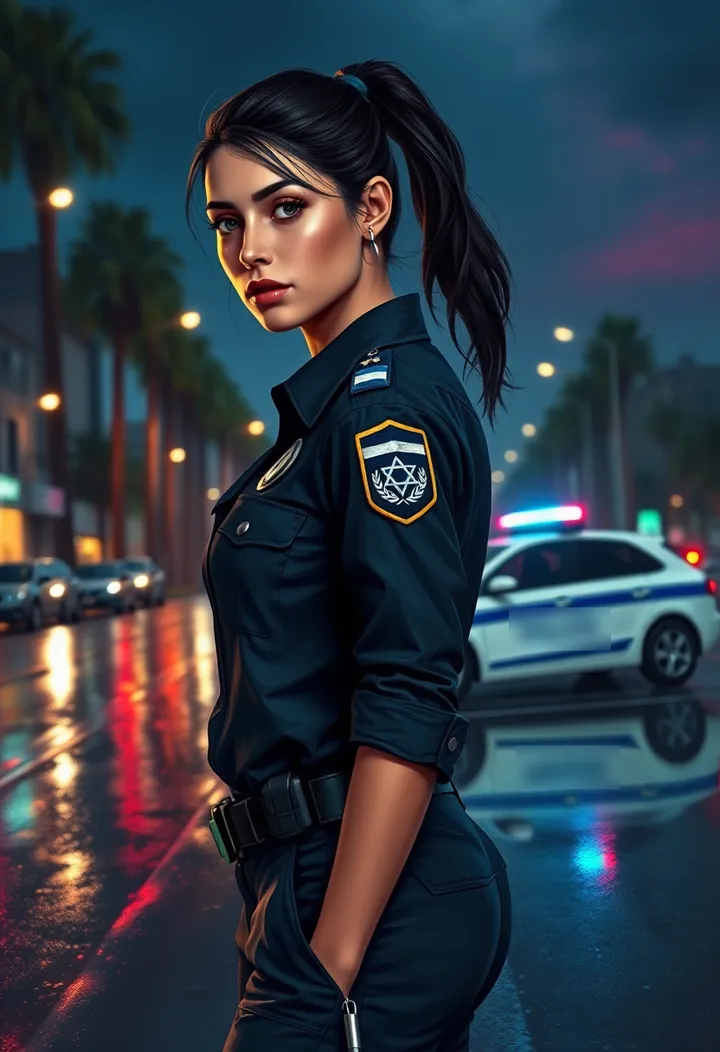
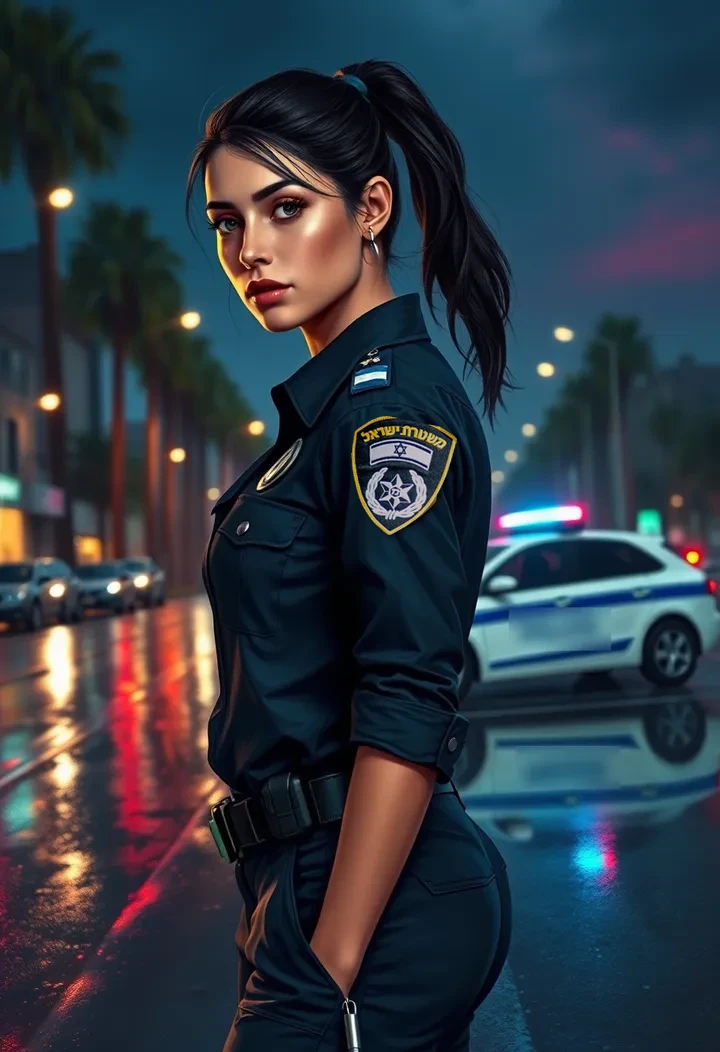
סמל משטרת ישראל הרשמי על שרוול השוטר והשוטרת (באישור), וסוף הטריילר: סמלי המכללה הלאומית לשוטרים ואגף ההדרכה נכנסים מתוך המצלמה משני הצדדים; תיקון גודל שדות טקסט בנייד

Changed region(s): [[0.4889, 0.3954, 0.6417, 0.5171]]

diff --git a/src/styles.css b/src/styles.css
@@ -121,7 +121,7 @@ legend { padding: 0 6px; color: var(--muted); font-size: .9em; }
 .radio-row label:has(input:checked) { border-color: var(--accent); }
 input[type='radio'], input[type='checkbox'] { width: 20px; height: 20px; accent-color: var(--accent); }
 input[type='range'] { width: 100%; accent-color: var(--accent); }
-textarea, input[type='text'], input[type='number'], select {
+textarea, input:not([type]), input[type='text'], input[type='password'], input[type='number'], select {
   font: inherit; color: var(--text); background: #0f1822; border: 1px solid var(--line); border-radius: 8px; padding: 8px; width: 100%;
 }
 textarea { min-height: 90px; resize: vertical; }
@@ -792,3 +792,52 @@ body.projector .no-projector { display: none !important; }
 .admin-timeline li.start { border-inline-start-color: var(--warn); }
 .admin-timeline li.review { border-inline-start-color: #7aa7ff; }
 .admin-timeline details summary { cursor: pointer; }
+
+/* אייפון מגדיל את הדף כשמקלידים בשדה עם טקסט קטן מ־16px – בנייד כל השדות לפחות 16px */
+@media (max-width: 899px), (pointer: coarse) {
+  input, select, textarea { font-size: max(16px, 1em); }
+}
+
+/* סוף הטריילר: הסמלים נכנסים מתוך המצלמה (מקרוב ומטושטש → למקום), פגיעה עם הבזק, ואז ברק שעובר עליהם */
+.intro-crest { position: absolute; z-index: 5; top: 50%; width: clamp(110px, 19vw, 250px); aspect-ratio: 1; display: grid; place-items: center; opacity: 0; pointer-events: none; transform: translateY(-50%) scale(4.2); }
+.intro-crest img { width: 100%; height: auto; filter: drop-shadow(0 10px 26px #000c); }
+.intro-crest.r { inset-inline-start: 5vw; }
+.intro-crest.l { inset-inline-end: 5vw; }
+.intro-crest::after { content: ''; position: absolute; inset: 0; pointer-events: none; background: linear-gradient(115deg, transparent 35%, #fff9 48%, transparent 60%) no-repeat; background-size: 250% 100%; background-position: 150% 0;
+  -webkit-mask: var(--crest) center / contain no-repeat; mask: var(--crest) center / contain no-repeat; opacity: 0; }
+.intro.film.title .intro-crest, .intro.film.out .intro-crest { animation: crestIn 1.5s cubic-bezier(.16, .84, .25, 1) forwards, crestFloat 6s ease-in-out 1.6s infinite; }
+.intro.film.title .intro-crest.r, .intro.film.out .intro-crest.r { --tilt: -10deg; animation-delay: .35s, 1.95s; }
+.intro.film.title .intro-crest.l, .intro.film.out .intro-crest.l { --tilt: 10deg; animation-delay: .75s, 2.35s; }
+.intro.film.title .intro-crest::after { animation: crestSheen 1.4s ease 2.4s forwards; }
+.intro.film.title .intro-crest.l::after { animation-delay: 2.7s; }
+@keyframes crestIn {
+  0% { opacity: 0; transform: translateY(-50%) scale(4.2) rotate(var(--tilt, 0deg)); filter: blur(18px) brightness(2.4); }
+  45% { opacity: 1; }
+  62% { transform: translateY(-50%) scale(.93) rotate(0deg); filter: blur(0) brightness(1.5); }
+  78% { transform: translateY(-50%) scale(1.04); filter: brightness(1.15); }
+  100% { opacity: 1; transform: translateY(-50%) scale(1); filter: drop-shadow(0 0 22px #9fc0ff55); }
+}
+@keyframes crestFloat { 0%, 100% { translate: 0 0; } 50% { translate: 0 -6px; } }
+@keyframes crestSheen { 0% { opacity: 1; background-position: 150% 0; } 100% { opacity: 1; background-position: -60% 0; } }
+/* הבזק קצר ברגע ש„נוחתים” */
+.intro-flash { position: absolute; inset: 0; z-index: 5; pointer-events: none; background: radial-gradient(circle at 50% 50%, #cfe0ff55, transparent 60%); opacity: 0; }
+.intro.film.title .intro-flash { animation: introFlash 1.8s ease .9s forwards; }
+@keyframes introFlash { 0% { opacity: 0; } 15% { opacity: 1; } 100% { opacity: 0; } }
+/* בטלפון לאורך: הסמלים מעל הכותרת, אחד בכל צד */
+@media (orientation: portrait) {
+  .intro-crest { top: 22%; width: clamp(92px, 30vw, 170px); }
+  .intro-crest.r { inset-inline-start: 8vw; }
+  .intro-crest.l { inset-inline-end: 8vw; }
+}
+@media (prefers-reduced-motion: reduce) {
+  .intro.film.title .intro-crest, .intro.film.out .intro-crest { animation: none; opacity: 1; transform: translateY(-50%); }
+}
+/* לרוחב: הכותרת בין שני הסמלים, בלי לעלות עליהם */
+@media (orientation: landscape) {
+  .intro-title { padding-inline: calc(5vw + clamp(110px, 19vw, 250px) + 16px); }
+  .intro-title h2 { font-size: clamp(2.2rem, 6.4vw, 6rem); white-space: nowrap; }
+}
+/* לאורך: הכותרת מתחת לסמלים */
+@media (orientation: portrait) {
+  .intro.film .intro-title { padding-top: 22vh; }
+}

diff --git a/src/ui/IntroVideo.tsx b/src/ui/IntroVideo.tsx
@@ -36,7 +36,7 @@ export function IntroVideo() {
   const toTitle = () => {
     if (phase !== 'play') return;
     setPhase('title');
-    window.setTimeout(finish, 3400);
+    window.setTimeout(finish, 5600);
   };
 
   useEffect(() => {
@@ -65,6 +65,14 @@ export function IntroVideo() {
       <span className="grain" aria-hidden="true" />
       <span className="vignette" aria-hidden="true" />
       <span className="bars" aria-hidden="true" />
+      {/* סוף הטריילר: סמלי המכללה הלאומית לשוטרים ואגף ההדרכה נכנסים מתוך המצלמה – אחד מימין ואחד משמאל */}
+      <div className="intro-crest r" aria-hidden="true" style={{ ['--crest' as string]: `url(${assetUrl('img/brand/academy.webp')})` }}>
+        <img src={assetUrl('img/brand/academy.webp')} alt="" />
+      </div>
+      <div className="intro-crest l" aria-hidden="true" style={{ ['--crest' as string]: `url(${assetUrl('img/brand/training.webp')})` }}>
+        <img src={assetUrl('img/brand/training.webp')} alt="" />
+      </div>
+      <span className="intro-flash" aria-hidden="true" />
       <div className="intro-title" aria-live="polite">
         <p>{SITE.creditLine}</p>
         <h2>{SITE.name}</h2>

diff --git a/tests/e2e/tracking.spec.ts b/tests/e2e/tracking.spec.ts
@@ -41,7 +41,9 @@ test('מעקב: שם וצוות בכניסה, התחלה וסיום נרשמים
   await page.getByTestId('who-name').fill('שירן כ.');
   await page.getByTestId('who-team').selectOption('קורס סיור 13');
   await page.getByTestId('district-select').selectOption('center');
-  await page.getByTestId('officer-confirm').click();
+  // בסימולציית האייפון של Playwright הלחיצה נחסמת אחרי הקלדה בשדה (באג של הכלי, לא של הדף) – לוחצים במקלדת
+  await page.getByTestId('officer-confirm').focus();
+  await page.keyboard.press('Enter');
   await expect.poll(() => rows.filter((r) => r.event === 'enter').length).toBeGreaterThan(0);
 
   await startScenario(page, 'shoplifting', 3);

diff --git a/scripts/ai-art/sleeve-patch.py b/scripts/ai-art/sleeve-patch.py
@@ -1,0 +1,35 @@
+"""מדביק את סמל משטרת ישראל הרשמי (באישור) על השרוול בתמונות השוטר והשוטרת.
+מקור: public/img/brand/police-patch.webp. התמונות בלי הסמל נשמרות פעם אחת ב-art-src/ (כדי שהרצה חוזרת לא תדביק פעמיים).
+הרצה: python3 scripts/ai-art/sleeve-patch.py
+"""
+import os, shutil
+from PIL import Image, ImageEnhance, ImageFilter
+
+ROOT = os.path.join(os.path.dirname(__file__), '..', '..')
+PATCH = Image.open(os.path.join(ROOT, 'public/img/brand/police-patch.webp')).convert('RGBA')
+# מרכז, רוחב, סיבוב (מעלות), בהירות – לפי מקום הפאץ' המעוצב שהיה בתמונה
+SPOTS = {
+    'm': dict(cx=228, cy=492, w=138, rot=1, light=0.82),
+    'f': dict(cx=402, cy=476, w=104, rot=-4, light=0.78),
+}
+
+for k, s in SPOTS.items():
+    out = os.path.join(ROOT, f'public/img/officer-{k}.webp')
+    base = os.path.join(ROOT, f'art-src/officer-{k}-nopatch.webp')
+    if not os.path.exists(base):
+        shutil.copy(out, base)
+    im = Image.open(base).convert('RGBA')
+    p = PATCH.copy()
+    h = round(s['w'] * p.height / p.width)
+    p = p.resize((s['w'], h), Image.LANCZOS)
+    p = ImageEnhance.Brightness(p).enhance(s['light'])
+    p = p.rotate(s['rot'], resample=Image.BICUBIC, expand=True)
+    # צל רך מתחת לפאץ' – נראה תפור על הבד
+    shadow = Image.new('RGBA', p.size, (0, 0, 0, 0))
+    shadow.putalpha(p.getchannel('A').point(lambda a: int(a * 0.55)))
+    shadow = shadow.filter(ImageFilter.GaussianBlur(3))
+    x, y = s['cx'] - p.width // 2, s['cy'] - p.height // 2
+    im.alpha_composite(shadow, (x + 2, y + 3))
+    im.alpha_composite(p, (x, y))
+    im.convert('RGB').save(out, 'WEBP', quality=90)
+    print(k, (x, y, p.width, p.height))
